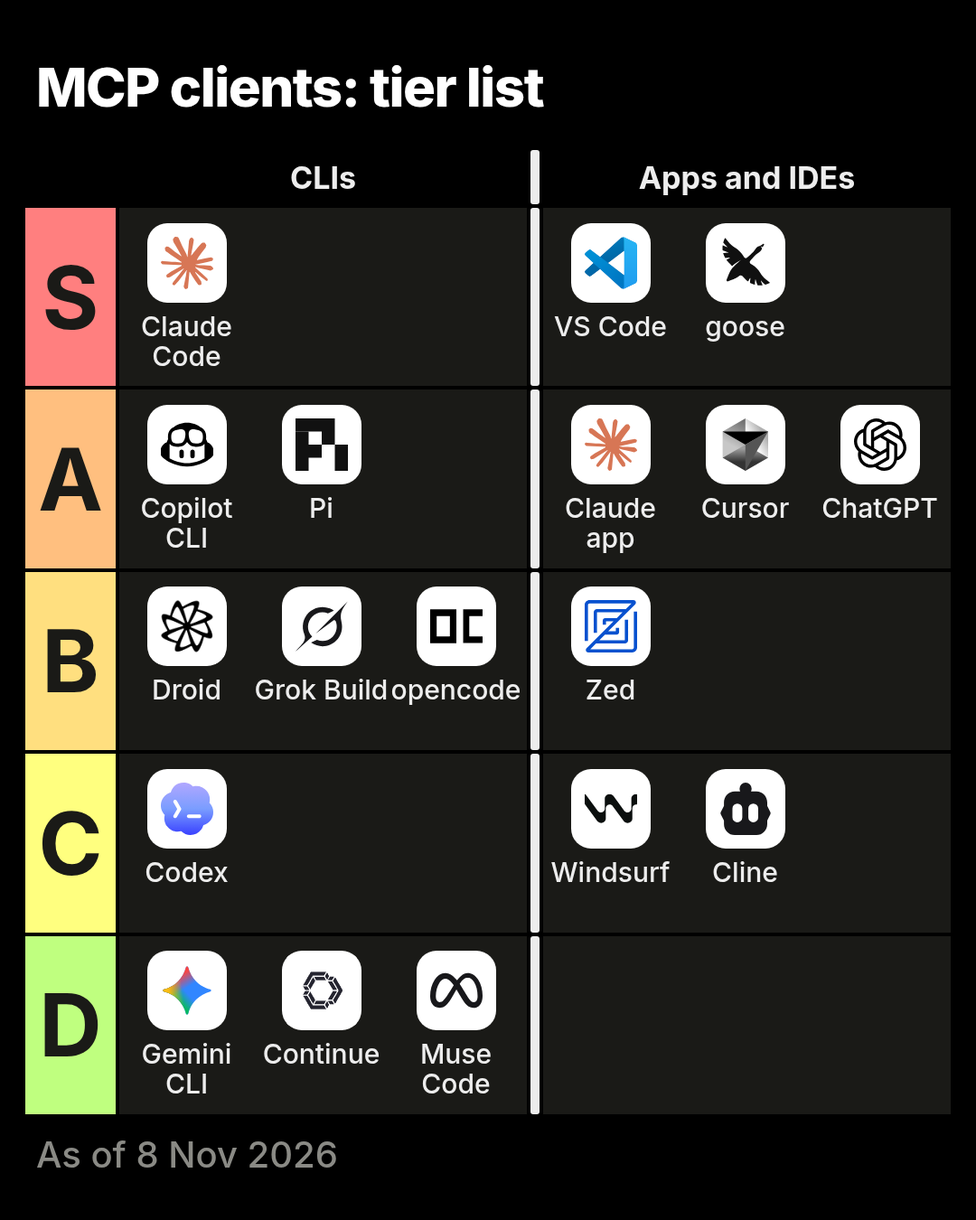
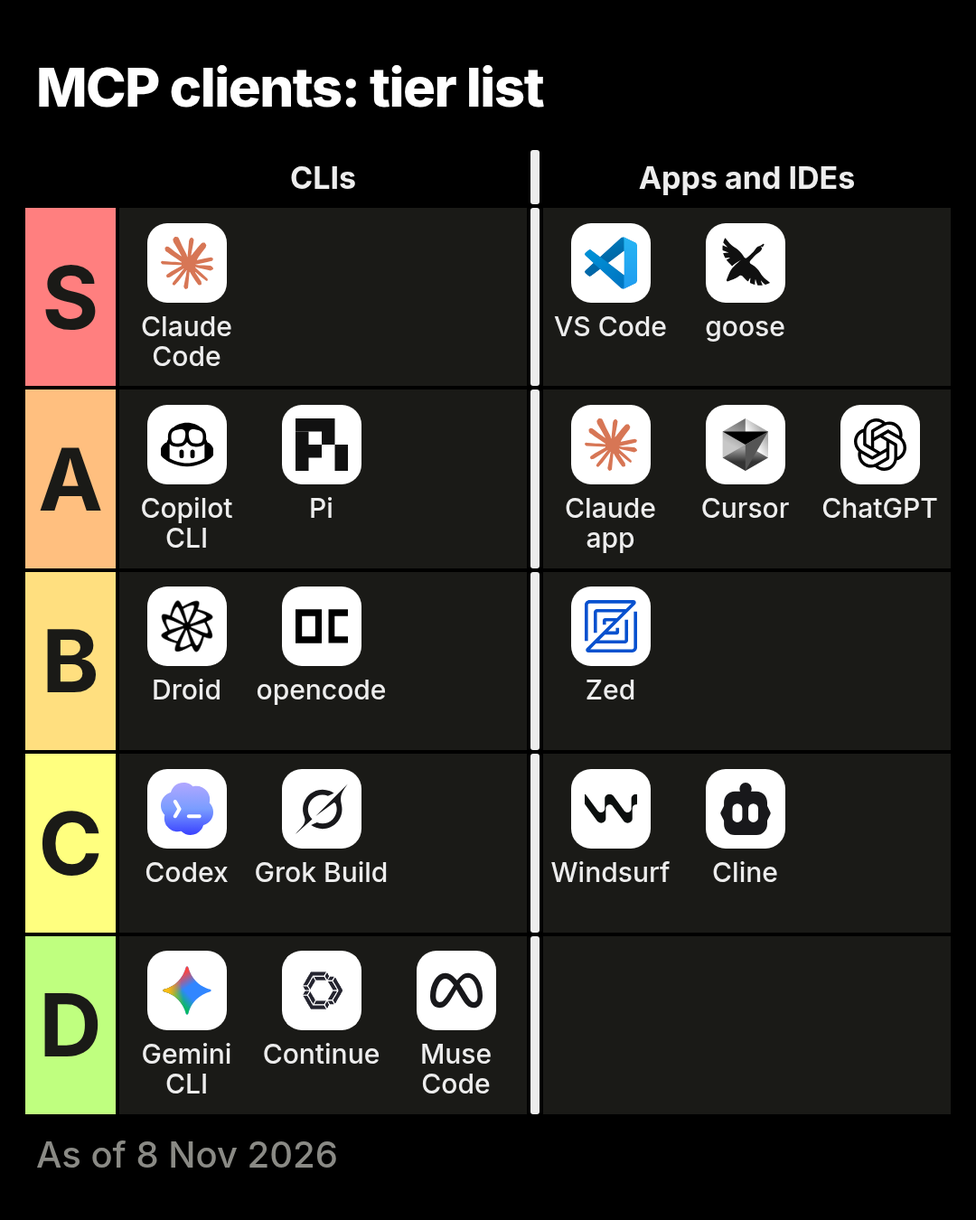
data: Grok elicitation is partial (form mode only), moving Grok Build to tier C; cite the Muse changelog for 'through 1.4.13'

Changed region(s): [[0.275, 0.4667, 0.55, 0.5911], [0.275, 0.6222, 0.3972, 0.7467], [0.3056, 0.4978, 0.3667, 0.5289]]

diff --git a/EVIDENCE.md b/EVIDENCE.md
@@ -82,25 +82,6 @@ Tier **B** · CLI · version checked `1.1.0` · tracker [Factory-AI/factory](htt
 | Code mode | [![partial](assets/icons/p.svg)](https://registry.npmjs.org/@factory/cli-linux-x64/1.5.0) | The 1.1.0 and 1.5.0 binaries have a Script tool that runs JavaScript calling MCP tools as tools.<server>.<tool>, but execution mode defaults to direct_only unless the model is listed in the server-side script_tool_models config (default empty) or the hidden exec flag --tool-execution-mode script-only is set; the docs and release notes through 1.5.0 do not mention it | source | 2026-11-06 |  |
 | Tool search | [![yes](assets/icons/y.svg) Keyword](https://registry.npmjs.org/@factory/cli-linux-x64/1.1.0) | ToolSearch (flag mcp_tool_search, default true) loads deferred MCP tools by select:<name> or by keywords matched against tool-name words only, scored as matched name tokens over max(name tokens, query words) with a small synonym map, returning the top-scoring ties; docs only say tools load on demand, ranking not documented | source | 2026-11-02 | [2026-06-03 (0.140.0)](https://docs.factory.com/changelog/release-notes) |
 
-## Grok Build
-
-Tier **B** · CLI · version checked `1.0.77` · MCP bugs fixed: no public tracker
-
-[website](https://x.ai/build) · [docs](https://docs.x.ai/build/features/mcp-servers) · [data file](data/clients/grok-build.yaml)
-
-| Feature | Value | Evidence | Method | Checked | Shipped |
-| --- | --- | --- | --- | --- | --- |
-| Spec version | [![one version behind](assets/icons/spec-behind.svg) 2025-11-25](https://x.ai/cli/grok-1.0.77-linux-x86_64) | Live probe of 1.0.77 on 2026-11-08 with grok mcp doctor negotiated 2025-11-25 (clientInfo grok-shell-probe 1.0.77); a full session was not probed because headless runs need a signed-in account | probe | 2026-11-08 |  |
-| MCP Apps | [![not applicable](assets/icons/na.svg)](https://x.ai/cli/grok-1.0.77-linux-x86_64) | Terminal client with no UI to render into: the live probe declared extension io.modelcontextprotocol/ui (mimeType text/html;profile=mcp-app) and the binary forwards a tool's resourceUri, but it has no ui/initialize handler or app bridge and the docs never describe rendering a UI | probe | 2026-11-08 |  |
-| Tasks | [![no](assets/icons/n.svg)](https://x.ai/cli/grok-1.0.77-linux-x86_64) | tasks/get and tasks/cancel appear only in bundled MCP library schemas in the 1.0.77 binary, and the probe saw no tasks capability | source | 2026-11-08 |  |
-| Events | [![no](assets/icons/n.svg)](https://x.ai/cli/grok-1.0.77-linux-x86_64) | 0 hits for events/subscribe or notifications/events in the 1.0.77 binary | source | 2026-11-08 |  |
-| CIMD | [![no](assets/icons/n.svg)](https://docs.x.ai/build/features/mcp-servers) | Docs: OAuth runs automatically through dynamic client registration or a bundled client ID (changelog 0.2.23); Client ID Metadata Documents are not mentioned | docs | 2026-11-08 |  |
-| ID-JAG | [![no](assets/icons/n.svg)](https://x.ai/cli/grok-1.0.77-linux-x86_64) | Only the generic jwt-bearer and token-exchange grant strings from the bundled OAuth library in the 1.0.77 binary, with no ID-JAG wiring | source | 2026-11-08 |  |
-| Elicitation | [![yes](assets/icons/y.svg)](https://x.ai/cli/grok-1.0.77-linux-x86_64) | The 1.0.77 binary has a session module (xai-grok-shell session/mcp_elicitation.rs) that receives elicitation/create and shows it as an mcp_elicitation prompt, and changelog 1.0.17 says MCP tools can request additional input mid-call and resume when you answer; the grok mcp doctor handshake did not declare elicitation and a signed-in session was not probed | source | 2026-11-08 |  |
-| Live tool lists | [![no](assets/icons/n.svg)](https://x.ai/cli/grok-1.0.77-linux-x86_64) | Only the bundled MCP library's ToolListChangedNotification types in the 1.0.77 binary, with no product handler found; in the doctor probe the client did not list again after notifications/tools/list_changed, and changelog 0.2.112 (tools appear without restart after enrolling a managed service) covers Grok's managed services, not this notification | source | 2026-11-08 |  |
-| Code mode | [![no](assets/icons/n.svg)](https://x.ai/cli/grok-1.0.77-linux-x86_64) | No tool in the 1.0.77 binary runs model-written code against MCP tools; MCP calls go through use_tool one at a time, and the docs and changelog do not mention a code or script mode | source | 2026-11-08 |  |
-| Tool search | [![yes](assets/icons/y.svg) Deferred](https://x.ai/cli/grok-1.0.77-linux-x86_64) | The 1.0.77 binary defers MCP tools behind search_tools and dispatches them through use_tool; changelog 1.0.46: Tool search activity folds as Ran N tool searches. Ranking is not documented | source | 2026-11-08 |  |
-
 ## opencode
 
 Tier **B** · CLI · version checked `1.19.5` · tracker [anomalyco/opencode](https://github.com/anomalyco/opencode/issues) · MCP bugs fixed: 19% of 338
@@ -140,6 +121,25 @@ Tier **C** · CLI · version checked `0.166.0` · tracker [openai/codex](https:/
 | Live tool lists | [![partial](assets/icons/p.svg)](https://github.com/openai/codex/blob/rust-v0.166.0/codex-rs/features/src/lib.rs#L1646-L1651) | Re-listing on the notification sits behind the feature flag mcp_tool_list_changed (Stage::UnderDevelopment, default_enabled false). Without the flag the notification is only logged | source | 2026-11-02 |  |
 | Code mode | [![partial](assets/icons/p.svg)](https://developers.openai.com/codex/config-reference) | features.code_mode is under development and off by default, matching `codex features list` on 0.166.0; still Stage::UnderDevelopment with default_enabled false in features/src/lib.rs at rust-v0.167.0 | docs | 2026-11-06 | [2026-03-11 (0.114.0)](https://github.com/openai/codex/releases/tag/rust-v0.114.0) |
 | Tool search | [![yes](assets/icons/y.svg) BM25](https://github.com/openai/codex/blob/6ff1e1ca3b30fc8b914720681fcf5fe62e95f856/codex-rs/core/src/tools/handlers/tool_search.rs#L171) | When the model supports the search tool, MCP tools are deferred and tool_search ranks them with BM25 (bm25 crate, English, fit to the corpus) over each tool name, the name with underscores as spaces, description, parameter names and descriptions, plus namespace name and description | source | 2026-10-30 | [2026-04-10 (0.119.0)](https://github.com/openai/codex/releases/tag/rust-v0.119.0) |
+
+## Grok Build
+
+Tier **C** · CLI · version checked `1.0.77` · MCP bugs fixed: no public tracker
+
+[website](https://x.ai/build) · [docs](https://docs.x.ai/build/features/mcp-servers) · [data file](data/clients/grok-build.yaml)
+
+| Feature | Value | Evidence | Method | Checked | Shipped |
+| --- | --- | --- | --- | --- | --- |
+| Spec version | [![one version behind](assets/icons/spec-behind.svg) 2025-11-25](https://x.ai/cli/grok-1.0.77-linux-x86_64) | Live probe of 1.0.77 on 2026-11-08 with grok mcp doctor negotiated 2025-11-25 (clientInfo grok-shell-probe 1.0.77); a full session was not probed because headless runs need a signed-in account | probe | 2026-11-08 |  |
+| MCP Apps | [![not applicable](assets/icons/na.svg)](https://x.ai/cli/grok-1.0.77-linux-x86_64) | Terminal client with no UI to render into: the live probe declared extension io.modelcontextprotocol/ui (mimeType text/html;profile=mcp-app) and the binary forwards a tool's resourceUri, but it has no ui/initialize handler or app bridge and the docs never describe rendering a UI | probe | 2026-11-08 |  |
+| Tasks | [![no](assets/icons/n.svg)](https://x.ai/cli/grok-1.0.77-linux-x86_64) | tasks/get and tasks/cancel appear only in bundled MCP library schemas in the 1.0.77 binary, and the probe saw no tasks capability | source | 2026-11-08 |  |
+| Events | [![no](assets/icons/n.svg)](https://x.ai/cli/grok-1.0.77-linux-x86_64) | 0 hits for events/subscribe or notifications/events in the 1.0.77 binary | source | 2026-11-08 |  |
+| CIMD | [![no](assets/icons/n.svg)](https://docs.x.ai/build/features/mcp-servers) | Docs: OAuth runs automatically through dynamic client registration or a bundled client ID (changelog 0.2.23); Client ID Metadata Documents are not mentioned | docs | 2026-11-08 |  |
+| ID-JAG | [![no](assets/icons/n.svg)](https://x.ai/cli/grok-1.0.77-linux-x86_64) | Only the generic jwt-bearer and token-exchange grant strings from the bundled OAuth library in the 1.0.77 binary, with no ID-JAG wiring | source | 2026-11-08 |  |
+| Elicitation | [![partial](assets/icons/p.svg)](https://x.ai/cli/grok-1.0.77-linux-x86_64) | Form mode only shown: the 1.0.77 binary has a session module (xai-grok-shell session/mcp_elicitation.rs) that shows elicitation/create as an mcp_elicitation prompt, and changelog 1.0.17 says MCP tools can request additional input mid-call and resume when you answer. The same module parses notifications/elicitation/complete by elicitationId, but no prompt that opens an elicitation URL was found, the grok mcp doctor handshake did not declare elicitation, and a signed-in session was not probed | source | 2026-11-08 |  |
+| Live tool lists | [![no](assets/icons/n.svg)](https://x.ai/cli/grok-1.0.77-linux-x86_64) | Only the bundled MCP library's ToolListChangedNotification types in the 1.0.77 binary, with no product handler found; in the doctor probe the client did not list again after notifications/tools/list_changed, and changelog 0.2.112 (tools appear without restart after enrolling a managed service) covers Grok's managed services, not this notification | source | 2026-11-08 |  |
+| Code mode | [![no](assets/icons/n.svg)](https://x.ai/cli/grok-1.0.77-linux-x86_64) | No tool in the 1.0.77 binary runs model-written code against MCP tools; MCP calls go through use_tool one at a time, and the docs and changelog do not mention a code or script mode | source | 2026-11-08 |  |
+| Tool search | [![yes](assets/icons/y.svg) Deferred](https://x.ai/cli/grok-1.0.77-linux-x86_64) | The 1.0.77 binary defers MCP tools behind search_tools and dispatches them through use_tool; changelog 1.0.46: Tool search activity folds as Ran N tool searches. Ranking is not documented | source | 2026-11-08 |  |
 
 ## Gemini CLI
 
@@ -190,15 +190,15 @@ Tier **D** · CLI · version checked `1.4.13` · MCP bugs fixed: no public track
 | Feature | Value | Evidence | Method | Checked | Shipped |
 | --- | --- | --- | --- | --- | --- |
 | Spec version | [![older spec](assets/icons/spec-older.svg) 2025-06-18](https://dev.meta.ai/docs/muse-code/changelog#v1-2-1) | Changelog 1.2.1: The MCP handshake advertises protocol version 2025-06-18 on both transports, and no later entry through 1.4.13 changes it. Not probed: the CLI is not on npm | changelog | 2026-11-08 |  |
-| MCP Apps | [![not applicable](assets/icons/na.svg)](https://dev.meta.ai/docs/muse-code/extending) | Terminal client; the docs and the changelog through 1.4.13 do not mention MCP Apps or ui:// resources | docs | 2026-11-08 |  |
-| Tasks | [![no](assets/icons/n.svg)](https://dev.meta.ai/docs/muse-code/extending) | No MCP tasks support in the docs or the changelog through 1.4.13 | docs | 2026-11-08 |  |
-| Events | [![no](assets/icons/n.svg)](https://dev.meta.ai/docs/muse-code/extending) | No MCP events support in the docs or the changelog through 1.4.13 | docs | 2026-11-08 |  |
+| MCP Apps | [![not applicable](assets/icons/na.svg)](https://dev.meta.ai/docs/muse-code/extending) | Terminal client; the docs and the changelog (https://dev.meta.ai/docs/muse-code/changelog) through 1.4.13 do not mention MCP Apps or ui:// resources | docs | 2026-11-08 |  |
+| Tasks | [![no](assets/icons/n.svg)](https://dev.meta.ai/docs/muse-code/extending) | No MCP tasks support in the docs or the changelog (https://dev.meta.ai/docs/muse-code/changelog) through 1.4.13 | docs | 2026-11-08 |  |
+| Events | [![no](assets/icons/n.svg)](https://dev.meta.ai/docs/muse-code/extending) | No MCP events support in the docs or the changelog (https://dev.meta.ai/docs/muse-code/changelog) through 1.4.13 | docs | 2026-11-08 |  |
 | CIMD | [![no](assets/icons/n.svg)](https://dev.meta.ai/docs/muse-code/changelog#v1-1-1) | Changelog 1.1.1: muse mcp login runs OAuth 2.1 with dynamic client registration by default (mcp_oauth_dynamic_client_registration); Client ID Metadata Documents are not mentioned | changelog | 2026-11-08 |  |
-| ID-JAG | [![no](assets/icons/n.svg)](https://dev.meta.ai/docs/muse-code/extending) | No enterprise-managed authorization or ID-JAG token exchange in the docs or the changelog through 1.4.13 | docs | 2026-11-08 |  |
+| ID-JAG | [![no](assets/icons/n.svg)](https://dev.meta.ai/docs/muse-code/extending) | No enterprise-managed authorization or ID-JAG token exchange in the docs or the changelog (https://dev.meta.ai/docs/muse-code/changelog) through 1.4.13 | docs | 2026-11-08 |  |
 | Elicitation | [![no](assets/icons/n.svg)](https://dev.meta.ai/docs/muse-code/extending) | User-input dialogs belong to Muse Code's own session protocol; no MCP elicitation/create handler is documented, although the 2025-06-18 version it advertises defines elicitation | docs | 2026-11-08 |  |
 | Live tool lists | [![no](assets/icons/n.svg)](https://dev.meta.ai/docs/muse-code/changelog#v1-1-1) | Changelog 1.1.1 mentions live refreshes of the server list, but no entry through 1.4.13 says tools are listed again on notifications/tools/list_changed | changelog | 2026-11-08 |  |
 | Code mode | [![no](assets/icons/n.svg)](https://dev.meta.ai/docs/muse-code/extending) | The extending docs expose MCP tools to the model directly, with no mode that runs model-written code against them | docs | 2026-11-08 |  |
-| Tool search | [![no](assets/icons/n.svg)](https://dev.meta.ai/docs/muse-code/extending) | No deferred loading or search over MCP tools in the Muse Code docs or the changelog through 1.4.13; the tool search page on dev.meta.ai is a Meta model API feature, not part of Muse Code's MCP client | docs | 2026-11-08 |  |
+| Tool search | [![no](assets/icons/n.svg)](https://dev.meta.ai/docs/muse-code/extending) | No deferred loading or search over MCP tools in the Muse Code docs or the changelog (https://dev.meta.ai/docs/muse-code/changelog) through 1.4.13; the tool search page on dev.meta.ai is a Meta model API feature, not part of Muse Code's MCP client | docs | 2026-11-08 |  |
 
 ## VS Code
 

diff --git a/README.md b/README.md
@@ -21,9 +21,9 @@ As of 8 Nov 2026. Click any cell for its source, or a client name for the full e
 | **A** | [Copilot CLI](EVIDENCE.md#copilot-cli) | `1.0.105` | [30% of 135](https://github.com/github/copilot-cli/issues) | [![current spec](assets/icons/spec-current.svg) 2026-07-28](https://github.com/github/copilot-cli/blob/main/changelog.md) | [![not applicable](assets/icons/na.svg)](https://github.com/github/copilot-cli/blob/main/changelog.md) | [![partial](assets/icons/p.svg)](https://github.com/github/copilot-cli/blob/main/changelog.md) | [![no](assets/icons/n.svg)](https://registry.npmjs.org/@github/copilot-linux-x64/1.0.105) | [![yes](assets/icons/y.svg)](https://github.com/github/copilot-cli/blob/main/changelog.md) | [![no](assets/icons/n.svg)](https://registry.npmjs.org/@github/copilot-linux-x64/1.0.105) | [![yes](assets/icons/y.svg)](https://github.com/github/copilot-cli/blob/main/changelog.md) | [![yes](assets/icons/y.svg)](https://github.com/github/copilot-cli/blob/84ee80ea6490ce02d6000439356a609fcefbb9ae/changelog.md#L454) | [![no](assets/icons/n.svg)](https://github.com/github/copilot-cli/blob/main/changelog.md) | [![yes](assets/icons/y.svg) Hosted](https://registry.npmjs.org/@github/copilot-linux-x64/1.0.105) |
 | **A** | [Pi](EVIDENCE.md#pi) | `1.4.0` | [31% of 84](https://github.com/earendil-works/pi/issues) | [![one version behind](assets/icons/spec-behind.svg) 2025-11-25](https://registry.npmjs.org/@earendil-works/pi-coding-agent/1.4.0) | [![not applicable](assets/icons/na.svg)](https://github.com/earendil-works/pi/blob/4a080252f06caf63a525d7873c5d94d3c23887e0/packages/coding-agent/docs/mcp.md#L246) | [![no](assets/icons/n.svg)](https://registry.npmjs.org/@earendil-works/pi-coding-agent/1.4.0) | [![no](assets/icons/n.svg)](https://github.com/earendil-works/pi/tree/4a080252f06caf63a525d7873c5d94d3c23887e0/packages/mcp/src) | [![yes](assets/icons/y.svg)](https://github.com/earendil-works/pi/blob/4a080252f06caf63a525d7873c5d94d3c23887e0/packages/coding-agent/docs/mcp.md#L162) | [![no](assets/icons/n.svg)](https://github.com/earendil-works/pi/tree/4a080252f06caf63a525d7873c5d94d3c23887e0/packages/mcp/src) | [![no](assets/icons/n.svg)](https://registry.npmjs.org/@earendil-works/pi-coding-agent/1.4.0) | [![yes](assets/icons/y.svg)](https://github.com/earendil-works/pi/blob/v1.4.0/packages/coding-agent/src/extensions/mcp/runtime.ts#L380-L382) | [![yes](assets/icons/y.svg)](https://github.com/earendil-works/pi/blob/4a080252f06caf63a525d7873c5d94d3c23887e0/packages/coding-agent/docs/mcp.md#L195) | [![yes](assets/icons/y.svg) BM25](https://github.com/earendil-works/pi/blob/4a080252f06caf63a525d7873c5d94d3c23887e0/packages/coding-agent/src/extensions/tool-search/tool.ts#L118) |
 | **B** | [Droid](EVIDENCE.md#droid) | `1.1.0` | [too few issues](https://github.com/Factory-AI/factory/issues) | [![one version behind](assets/icons/spec-behind.svg) 2025-11-25](https://registry.npmjs.org/@factory/cli-linux-x64/1.1.0) | [![not applicable](assets/icons/na.svg)](https://registry.npmjs.org/@factory/cli-linux-x64/1.1.0) | [![no](assets/icons/n.svg)](https://registry.npmjs.org/@factory/cli-linux-x64/1.1.0) | [![no](assets/icons/n.svg)](https://registry.npmjs.org/@factory/cli-linux-x64/1.1.0) | [![yes](assets/icons/y.svg)](https://docs.factory.com/harness/mcp) | [![no](assets/icons/n.svg)](https://registry.npmjs.org/@factory/cli-linux-x64/1.1.0) | [![no](assets/icons/n.svg)](https://registry.npmjs.org/@factory/cli-linux-x64/1.1.0) | [![no](assets/icons/n.svg)](https://docs.factory.ai/cli/configuration/mcp) | [![partial](assets/icons/p.svg)](https://registry.npmjs.org/@factory/cli-linux-x64/1.5.0) | [![yes](assets/icons/y.svg) Keyword](https://registry.npmjs.org/@factory/cli-linux-x64/1.1.0) |
-| **B** | [Grok Build](EVIDENCE.md#grok-build) | `1.0.77` | no public tracker | [![one version behind](assets/icons/spec-behind.svg) 2025-11-25](https://x.ai/cli/grok-1.0.77-linux-x86_64) | [![not applicable](assets/icons/na.svg)](https://x.ai/cli/grok-1.0.77-linux-x86_64) | [![no](assets/icons/n.svg)](https://x.ai/cli/grok-1.0.77-linux-x86_64) | [![no](assets/icons/n.svg)](https://x.ai/cli/grok-1.0.77-linux-x86_64) | [![no](assets/icons/n.svg)](https://docs.x.ai/build/features/mcp-servers) | [![no](assets/icons/n.svg)](https://x.ai/cli/grok-1.0.77-linux-x86_64) | [![yes](assets/icons/y.svg)](https://x.ai/cli/grok-1.0.77-linux-x86_64) | [![no](assets/icons/n.svg)](https://x.ai/cli/grok-1.0.77-linux-x86_64) | [![no](assets/icons/n.svg)](https://x.ai/cli/grok-1.0.77-linux-x86_64) | [![yes](assets/icons/y.svg) Deferred](https://x.ai/cli/grok-1.0.77-linux-x86_64) |
 | **B** | [opencode](EVIDENCE.md#opencode) | `1.19.5` | [19% of 338](https://github.com/anomalyco/opencode/issues) | [![one version behind](assets/icons/spec-behind.svg) 2025-11-25](https://github.com/anomalyco/opencode/blob/810c0eba1a7348036f8bdf61e6632d0c36c6876c/packages/opencode/src/mcp/index.ts#L39) | [![not applicable](assets/icons/na.svg)](https://github.com/anomalyco/opencode/blob/810c0eba1a7348036f8bdf61e6632d0c36c6876c/packages/opencode/src/mcp/index.ts#L39) | [![no](assets/icons/n.svg)](https://github.com/anomalyco/opencode/blob/810c0eba1a7348036f8bdf61e6632d0c36c6876c/packages/opencode/src/mcp/index.ts#L47) | [![no](assets/icons/n.svg)](https://github.com/anomalyco/opencode/tree/810c0eba1a7348036f8bdf61e6632d0c36c6876c/packages/opencode/src/mcp) | [![no](assets/icons/n.svg)](https://github.com/anomalyco/opencode/blob/810c0eba1a7348036f8bdf61e6632d0c36c6876c/packages/opencode/src/mcp/index.ts#L301) | [![no](assets/icons/n.svg)](https://github.com/anomalyco/opencode/tree/810c0eba1a7348036f8bdf61e6632d0c36c6876c/packages/opencode/src/mcp) | [![no](assets/icons/n.svg)](https://github.com/anomalyco/opencode/blob/810c0eba1a7348036f8bdf61e6632d0c36c6876c/packages/opencode/src/mcp/index.ts#L44) | [![yes](assets/icons/y.svg)](https://github.com/anomalyco/opencode/blob/v1.19.5/packages/opencode/src/mcp/index.ts#L461-L471) | [![partial](assets/icons/p.svg)](https://github.com/anomalyco/opencode/blob/810c0eba1a7348036f8bdf61e6632d0c36c6876c/packages/opencode/src/effect/runtime-flags.ts#L48) | [![partial](assets/icons/p.svg)](https://github.com/anomalyco/opencode/blob/810c0eba1a7348036f8bdf61e6632d0c36c6876c/packages/codemode/src/tool-runtime.ts#L411) |
 | **C** | [Codex](EVIDENCE.md#codex) | `0.166.0` | [5% of 491](https://github.com/openai/codex/issues) | [![older spec](assets/icons/spec-older.svg) 2025-06-18](https://github.com/openai/codex/blob/6ff1e1ca3b30fc8b914720681fcf5fe62e95f856/codex-rs/features/src/lib.rs#L1641) | [![not applicable](assets/icons/na.svg)](https://github.com/openai/codex/issues/52524) | [![no](assets/icons/n.svg)](https://github.com/openai/codex/issues/48617) | [![no](assets/icons/n.svg)](https://github.com/openai/codex/blob/6ff1e1ca3b30fc8b914720681fcf5fe62e95f856/codex-rs/codex-mcp/src/resource_client.rs#L353) | [![yes](assets/icons/y.svg)](https://developers.openai.com/codex/mcp) | [![partial](assets/icons/p.svg)](https://github.com/openai/codex/blob/6ff1e1ca3b30fc8b914720681fcf5fe62e95f856/codex-rs/features/src/lib.rs#L1671) | [![yes](assets/icons/y.svg)](https://github.com/openai/codex/pull/22188) | [![partial](assets/icons/p.svg)](https://github.com/openai/codex/blob/rust-v0.166.0/codex-rs/features/src/lib.rs#L1646-L1651) | [![partial](assets/icons/p.svg)](https://developers.openai.com/codex/config-reference) | [![yes](assets/icons/y.svg) BM25](https://github.com/openai/codex/blob/6ff1e1ca3b30fc8b914720681fcf5fe62e95f856/codex-rs/core/src/tools/handlers/tool_search.rs#L171) |
+| **C** | [Grok Build](EVIDENCE.md#grok-build) | `1.0.77` | no public tracker | [![one version behind](assets/icons/spec-behind.svg) 2025-11-25](https://x.ai/cli/grok-1.0.77-linux-x86_64) | [![not applicable](assets/icons/na.svg)](https://x.ai/cli/grok-1.0.77-linux-x86_64) | [![no](assets/icons/n.svg)](https://x.ai/cli/grok-1.0.77-linux-x86_64) | [![no](assets/icons/n.svg)](https://x.ai/cli/grok-1.0.77-linux-x86_64) | [![no](assets/icons/n.svg)](https://docs.x.ai/build/features/mcp-servers) | [![no](assets/icons/n.svg)](https://x.ai/cli/grok-1.0.77-linux-x86_64) | [![partial](assets/icons/p.svg)](https://x.ai/cli/grok-1.0.77-linux-x86_64) | [![no](assets/icons/n.svg)](https://x.ai/cli/grok-1.0.77-linux-x86_64) | [![no](assets/icons/n.svg)](https://x.ai/cli/grok-1.0.77-linux-x86_64) | [![yes](assets/icons/y.svg) Deferred](https://x.ai/cli/grok-1.0.77-linux-x86_64) |
 | **D** | [Gemini CLI](EVIDENCE.md#gemini-cli) | `0.66.0` | [19% of 31](https://github.com/google-gemini/gemini-cli/issues) | [![older spec](assets/icons/spec-older.svg) 2025-06-18](https://github.com/google-gemini/gemini-cli/blob/970413207732f5d4d8c50540c7fc359c44fdaaf2/packages/core/package.json#L34) | [![not applicable](assets/icons/na.svg)](https://github.com/google-gemini/gemini-cli/blob/970413207732f5d4d8c50540c7fc359c44fdaaf2/packages/core/src/tools/mcp-client.ts#L1869) | [![no](assets/icons/n.svg)](https://github.com/google-gemini/gemini-cli/blob/970413207732f5d4d8c50540c7fc359c44fdaaf2/packages/core/src/tools/mcp-client.ts#L1869) | [![no](assets/icons/n.svg)](https://github.com/google-gemini/gemini-cli/tree/970413207732f5d4d8c50540c7fc359c44fdaaf2/packages/core/src) | [![no](assets/icons/n.svg)](https://github.com/google-gemini/gemini-cli/blob/970413207732f5d4d8c50540c7fc359c44fdaaf2/packages/core/src/mcp/oauth-provider.ts#L105) | [![no](assets/icons/n.svg)](https://github.com/google-gemini/gemini-cli/tree/970413207732f5d4d8c50540c7fc359c44fdaaf2/packages/core/src/mcp) | [![no](assets/icons/n.svg)](https://github.com/google-gemini/gemini-cli/blob/970413207732f5d4d8c50540c7fc359c44fdaaf2/packages/core/src/tools/mcp-client.ts#L1869) | [![yes](assets/icons/y.svg)](https://github.com/google-gemini/gemini-cli/blob/v0.66.0/packages/core/src/tools/mcp-client.ts#L419-L427) | [![no](assets/icons/n.svg)](https://github.com/google-gemini/gemini-cli/tree/970413207732f5d4d8c50540c7fc359c44fdaaf2/packages/core/src/tools) | [![no](assets/icons/n.svg)](https://github.com/google-gemini/gemini-cli/tree/970413207732f5d4d8c50540c7fc359c44fdaaf2/packages/core/src/tools) |
 | **D** | [Continue](EVIDENCE.md#continue) | `2.0.0` | [too few issues](https://github.com/continuedev/continue/issues) | [![one version behind](assets/icons/spec-behind.svg) 2025-11-25](https://github.com/continuedev/continue/blob/5522c6f44ca0ac3528b37244818fbfa39b5af470/extensions/cli/src/services/MCPService.ts#L405) | [![partial](assets/icons/p.svg)](https://github.com/continuedev/continue/blob/5522c6f44ca0ac3528b37244818fbfa39b5af470/gui/src/pages/gui/ToolCallDiv/MCPAppRenderer.tsx) | [![no](assets/icons/n.svg)](https://github.com/continuedev/continue/blob/5522c6f44ca0ac3528b37244818fbfa39b5af470/extensions/cli/src/services/MCPService.ts#L405) | [![no](assets/icons/n.svg)](https://github.com/continuedev/continue/tree/5522c6f44ca0ac3528b37244818fbfa39b5af470/core) | [![no](assets/icons/n.svg)](https://github.com/continuedev/continue/blob/5522c6f44ca0ac3528b37244818fbfa39b5af470/core/context/mcp/MCPOauth.ts#L119) | [![no](assets/icons/n.svg)](https://github.com/continuedev/continue/tree/5522c6f44ca0ac3528b37244818fbfa39b5af470/core) | [![no](assets/icons/n.svg)](https://github.com/continuedev/continue/blob/5522c6f44ca0ac3528b37244818fbfa39b5af470/extensions/cli/src/services/MCPService.ts#L405) | [![no](assets/icons/n.svg)](https://github.com/continuedev/continue/blob/5522c6f44ca0ac3528b37244818fbfa39b5af470/extensions/cli/src/services/MCPService.ts#L299-L310) | [![no](assets/icons/n.svg)](https://github.com/continuedev/continue/tree/5522c6f44ca0ac3528b37244818fbfa39b5af470/core/context/mcp) | [![no](assets/icons/n.svg)](https://github.com/continuedev/continue/tree/5522c6f44ca0ac3528b37244818fbfa39b5af470/core/context/mcp) |
 | **D** | [Muse Code](EVIDENCE.md#muse-code) | `1.4.13` | no public tracker | [![older spec](assets/icons/spec-older.svg) 2025-06-18](https://dev.meta.ai/docs/muse-code/changelog#v1-2-1) | [![not applicable](assets/icons/na.svg)](https://dev.meta.ai/docs/muse-code/extending) | [![no](assets/icons/n.svg)](https://dev.meta.ai/docs/muse-code/extending) | [![no](assets/icons/n.svg)](https://dev.meta.ai/docs/muse-code/extending) | [![no](assets/icons/n.svg)](https://dev.meta.ai/docs/muse-code/changelog#v1-1-1) | [![no](assets/icons/n.svg)](https://dev.meta.ai/docs/muse-code/extending) | [![no](assets/icons/n.svg)](https://dev.meta.ai/docs/muse-code/extending) | [![no](assets/icons/n.svg)](https://dev.meta.ai/docs/muse-code/changelog#v1-1-1) | [![no](assets/icons/n.svg)](https://dev.meta.ai/docs/muse-code/extending) | [![no](assets/icons/n.svg)](https://dev.meta.ai/docs/muse-code/extending) |
@@ -80,7 +80,7 @@ Code mode and Tool search are marked harness: they are how the client handles to
 | Events | 0 | 1 | 17 | 0 |
 | CIMD | 10 | 0 | 8 | 0 |
 | ID-JAG | 3 | 1 | 14 | 0 |
-| Elicitation | 5 | 3 | 10 | 0 |
+| Elicitation | 4 | 4 | 10 | 0 |
 | Live tool lists | 10 | 1 | 7 | 0 |
 | Code mode <sub>harness</sub> | 2 | 4 | 12 | 0 |
 | Tool search <sub>harness</sub> | 10 | 2 | 6 | 0 |
